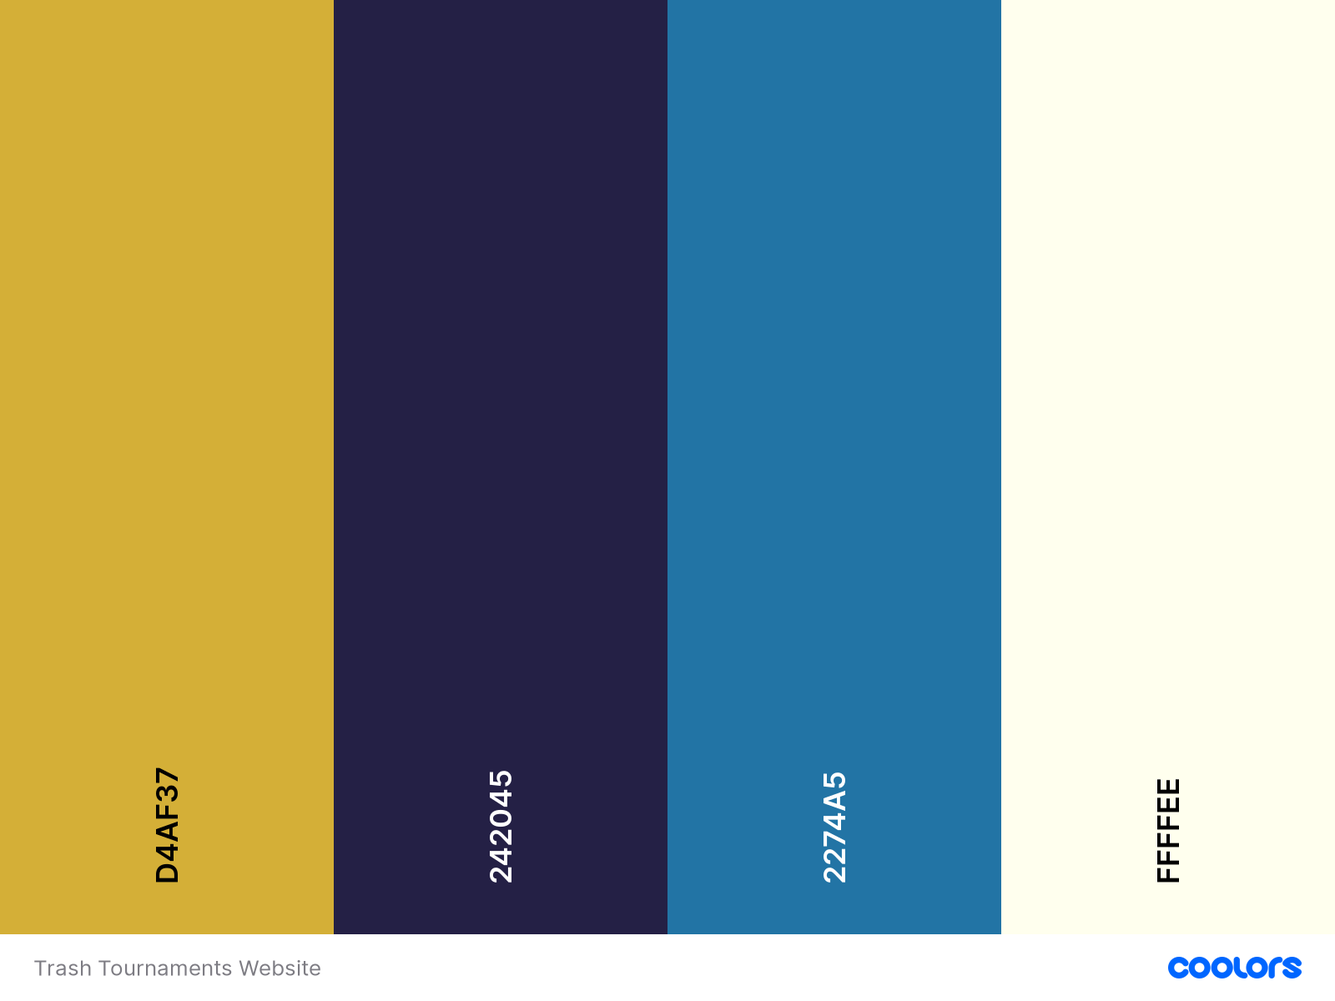
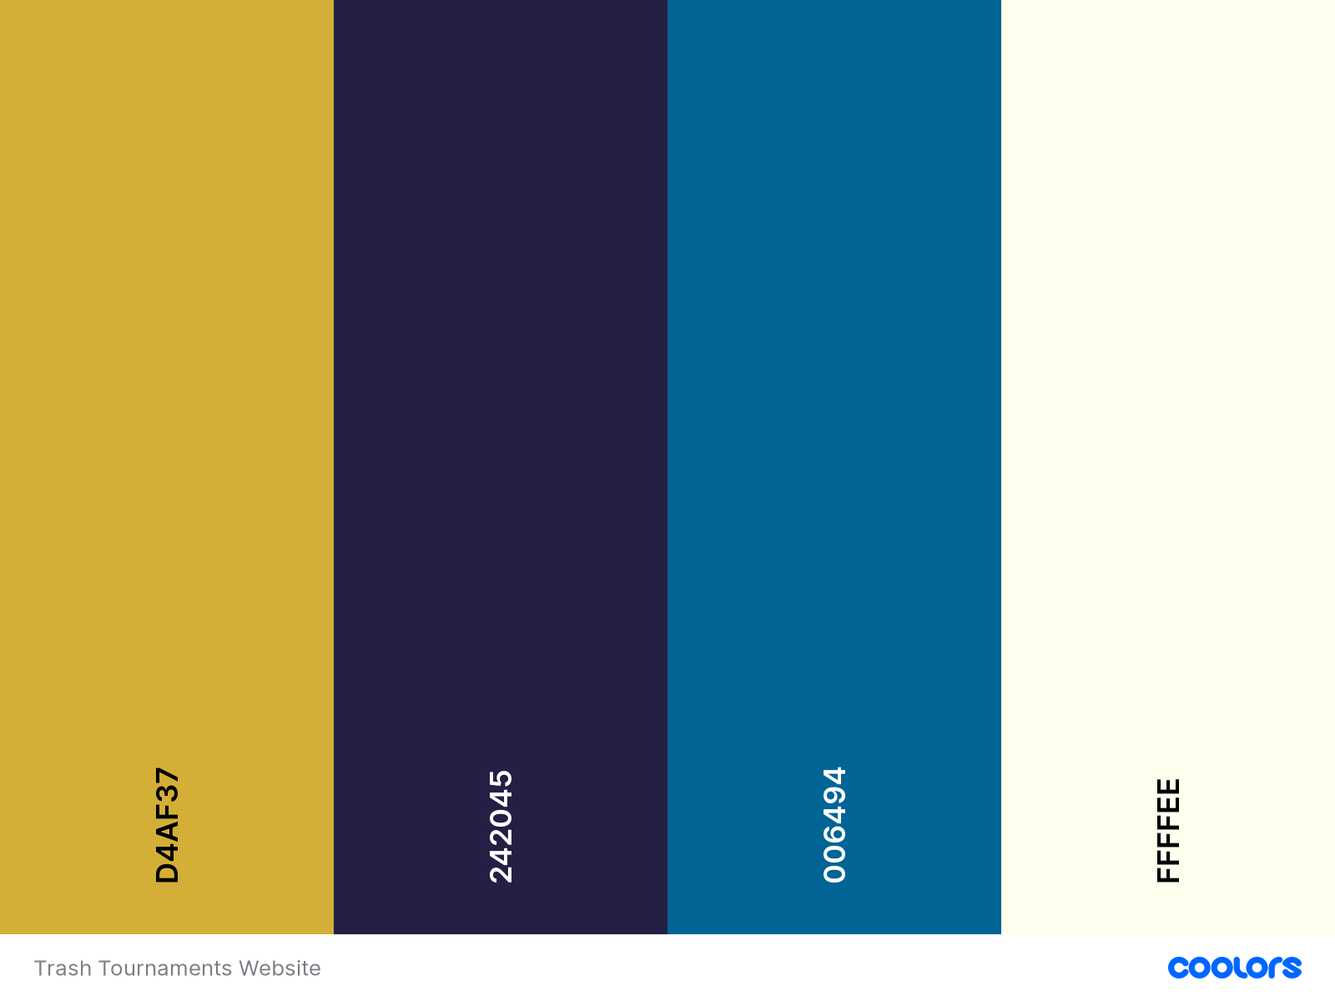
[DOCS] Fixed typos and grammatical errors

Changed region(s): [[0.5, 0.0, 0.75, 0.9558]]

diff --git a/tournaments.html b/tournaments.html
@@ -58,7 +58,7 @@
                         </div>
                         <div class="tournament-object" data-dates="Sat 7th Nov 2020 4pm GMT">
                             <h2 class="tournament-title">Turtle Tournament</h2>
-                            <p class="tournament-text">Your standard tournament, but with a twist. You can only be upside down on your roof! It's aboslutely hilarious and it improves your ground game so may the best turtles ride their shells to victory!</p>
+                            <p class="tournament-text">Your standard tournament, but with a twist. You can only be upside down on your roof! It's absolutely hilarious and it improves your ground game so may the best turtles ride their shells to victory!</p>
                         </div>
                         <div class="tournament-object" data-dates="Sat 14th Nov 2020 8pm GMT">
                             <h2 class="tournament-title">Slow mo Tournament</h2>

diff --git a/README.md b/README.md
@@ -2,7 +2,9 @@
 
 [View a live version of the site here.](https://joeyyscott.github.io/Trash-Tournaments/)
 
-Trash Tournaments is a personal community discord aimed at helping peope improve at the game [Rocket League](https://www.rocketleague.com/). It is owned by me and a few friends and for Milestone Project 1 why not create a site that will get used?
+I have created this project (Milestone project 1) as part of my Full Stack Web Development course with [Code Institute](https://codeinstitute.net/).
+
+Trash Tournaments is a personal community discord aimed at helping people improve at the game [Rocket League](https://www.rocketleague.com/). It is owned by me and a few friends. For Milestone Project 1 I thought why not create a site that will get used?
 
 ![Am I responsive screenshot](readme-images/amiresponsive.png)
 
@@ -41,7 +43,7 @@ ___
 
 ### Project Goals
 
-The idea is to create a static front-end only website consisting of 5 pages to advertise a non competitive [Rocket League](https://www.rocketleague.com/) tournament discord. The basis for this idea is being a veteran Rocket League player myself I know first-hand the bad experiences a user can encounter. The Discord itself is run by me. I consulted with a few friends and proposed the idea to them to give me an idea of requirements, needs and what they would expect/desire from such a product.
+The idea is to create a static front-end only website consisting of 4 pages to advertise a non competitive [Rocket League](https://www.rocketleague.com/) tournament discord. The basis for this idea is being a veteran Rocket League player myself I know first-hand the bad experiences a user can encounter. The Discord itself is run by me. I consulted with a few friends and proposed the idea to them to give me an idea of requirements, needs and what they would expect/desire from such a product.
 
 ### Content Requirements
 
@@ -49,7 +51,7 @@ The idea is to create a static front-end only website consisting of 5 pages to a
 
     **Strategy for requirement**:
     
-    The only graphic that has been given is the discord logo. Due to this, it is the main inspiration for the design as it returns you to the home page. The suggested colour scheme is: white, blue and gold. These 3 colours will create a consistent style for the website and thus the brand.
+    The only graphic that has been given is the discord logo. Due to this, it is the main inspiration for the design as it returns you to the home page. The suggested colour scheme is: gold, blue and white. These 3 colours will create a consistent style for the website and thus the brand.
 
     I have conducted interviews with the administrators as well as a few current players which provided the information to fill the home page, about section and FAQ. I also received information on how the tournaments will be structured time zone wise which provides a basis for the tournaments' timetable page.
 
@@ -69,14 +71,14 @@ The idea is to create a static front-end only website consisting of 5 pages to a
     
     Establishing a solid brand image from the Discord's ethos, active players and purpose creates the welcoming environment for new users. This paired with people who are looking to improve provides a mentally positive and encouraging environment associated with the brand. I have added a quick overview of the about page on the homepage to further reinforce that environment.
 
-    People playing [Rocket League](https://www.rocketleague.com/) either own a console, pc or both. 66.6% (console) of players may not own a PC/laptop. This is an important consideration as this is potentially 2/3rds of the target audience. Due to this the website will be constructed with a mobile first design approach to utilize the time a potential user spends on the site by providing only the essential information whilst maintaining the style, layout and intuitive browsing. This allows all users (mobile, tablet, PC) to receive a similar but optimized experience which maintains the brand image across all devices. The navigation menu will be central fixed to the top with taglines to provide additional info; however on mobile devices the menu will collapse into a ‘hamburger’ icon as these devices have less screen real estate. All versions will include eye catching fonts, a fitting colour scheme (active pages, links, hovers, etc) and utilizing modern conventions consistently to maintain a satisfying user experience. Using a sleek design will catch the attention of new visitors as it looks professional and provides a positive brand image.
+    People playing [Rocket League](https://www.rocketleague.com/) either own a console, pc or both. 66.6% (console) of players may not own a PC/laptop. This is an important consideration as this is potentially 2/3rds of the target audience. Due to this the website will be constructed with a mobile first design approach to utilize the time a potential user spends on the site by providing only the essential information whilst maintaining the style, layout and intuitive browsing. This allows all users (mobile, tablet, PC) to receive a similar but optimized experience which maintains the brand image across all devices. The navigation menu will be central fixed to the top with taglines to provide additional information; however on mobile devices the menu will collapse into a ‘hamburger’ icon as these devices have less screen real estate. All versions will include eye catching fonts, a fitting colour scheme (active pages, links, hovers, etc) and utilizing modern conventions consistently to maintain a satisfying user experience. Using a sleek design will catch the attention of new visitors as it looks professional and provides a positive brand image.
 
 + What does the user expect from such a website?
 
     **Strategy for requirement**: 
     + **What is this?** - Product branding/style must be consistent across all pages and easily recognizable throughout the website.
     + **Expectations of User?** - Active player base, promising reviews, information on all critical areas. Tournament times/dates, how to get involved and a way to contact the owners should they be stuck.
-    + **Does it offer what I want?** - Friendly environment to improve, higher ranks willing to help, finding people to play with who have similar interests. (wanting to improve, play as a team, etc)
+    + **Does it offer what I want?** - Friendly environment to improve, higher ranks willing to help, finding people to play with who have similar interests (wanting to improve, play as a team, etc).
     + **Does it encourage new users and existing users to stay/return?** - All call to action buttons and links open up in a new tab to maintain user retention. On the homepage there is evidence of all the content within the site in a shortened version; current users, users' learning experiences in the About page, a variety of information/content presented to promote the Discord's ethos and community which entices new users as they can see others already benefitting from it.
 
 ### Importance and Feasibility chart
@@ -109,18 +111,18 @@ F. User posted testimonials | 1 | 2
     + As a **site owner** I want users to clearly see there are people willing to play with and help them improve at [Rocket League](https://www.rocketleague.com/).
     + As a **site owner** I want an organized, intuitive navigation system across all pages.
     + As a **site owner** I want users to see input from people who have participated and their respective ranks.
-    + As a **site owner** I want to include information of upcoming tournaments with conversions for major time zones.
+    + As a **site owner** I want to include information of upcoming tournaments with a way to convert the schedule for any users time zone.
     + As a **site owner** I want any user to be able to easily contact me with their details and query for more information.
 
 ### What is needed now and in future?
 
 + What do they say they need?
 
-    The Discord owners want an aesthetically pleasing and professional website to reinforce their ethos and give a concise but detailed description of everything the Discord has to offer. A section in the About page to contain player reviews of the Discord to provide reassurance that anyone, even a Bronze player can and has benefitted from the experience. This includes their rank, learning experience and their recommendation out of 10 which attracts new users and allows current users to be inspired and motivated by other’s experiences.
+    The Discord owners want an aesthetically pleasing and professional website to reinforce their ethos and give a concise but detailed description of everything the Discord has to offer. There will be a player feedback section in the About page to provide reassurance that anyone, even a Bronze player can and has benefitted from the experience. This includes their rank, learning experience and their recommendation out of 10 which attracts new users and allows current users to be inspired and motivated by other’s experiences.
 
 + What do they actually need?
 
-    The Discord owners could have their needs and more fulfilled by using a mobile first approach to a fully responsive website which would allow for easy navigation, use and no diminished experiences on all viewport sizes. Clear simplistically designed pages and sections to draw attention to all the features offered (About, Tournaments and FAQ/contact) which allows new users to become familiarized with the environment in use by the current players and encourage them to get involved. Within the Tournaments' section, display dates and times in the time zone GMT with a converter that allows all users to check when it is for them. Include a description for the type of tournament (regular, extra modes, training) to ensure users are receiving the correct information for where they wish to get involved.
+    The Discord owners could have their needs and more fulfilled by using a mobile first approach to a fully responsive website which would allow for easy navigation, use and no diminished experiences on all viewport sizes. Clear simplistically designed pages and sections to draw attention to all the features offered (About, Tournaments and FAQ/contact) which allows new users to become familiarized with the environment in use by the current players and encourage them to get involved. Within the Tournaments' section, display dates and times in the time zone GMT with a converter that allows all users to check when it is for them. Include a description for the type of tournament (regular, extra modes, training) to ensure users are receiving the correct information should they wish to get involved.
 
 + What don’t they know they need?
 
@@ -152,7 +154,9 @@ To maintain a good user experience, consistent styling throughout the site using
 
 ![Colour Scheme](readme-images/colourscheme.png)
 
-After a quick Google search I found a great tool called [coolors.co](https://coolors.co/) which I used to create this colour scheme. From the strategy section feedback, it was decided to be blue, white and gold. I picked the gold and darker blue from the logo given, I decided to use a second lighter shade of blue (using the sites generator) to create visual identification to the user about state changes of elements. The final colour chosen was off-white to provide a neutral colour for text.
+After a quick Google search I found a great tool called [coolors.co](https://coolors.co/) which I used to create this colour scheme. From the strategy section feedback it was decided to be gold, blue and white. I picked the gold and darker blue from the logo given. 
+
+I am using the gold as the main colour and the dark blue to provide visual identification to the user about state changes of elements. I decided to use a second lighter shade of blue (using the sites generator) to create the background colour as I felt this would provide a better contrast than the darker blue. The final colour chosen was off-white to provide a neutral colour for text as well as visual identification to the user about the page they're currently browsing.
 
 #### Images
 
@@ -172,8 +176,10 @@ To keep with the intended consistent styling I have used the same two fonts from
 
 ### Design changes
 
-+ Originally I was going to use the standard navbartoggler icon from BootStrap but decided to use a font awesome icon inside my span element of the button. It doesn't seem to affect my site as it stands, I used a trash can icon to build the Brand's presence.
++ Originally I was going to use the standard navbartoggler icon from BootStrap but decided to use a font awesome icon inside my span element of the button. It does not seem to affect my site as it stands so I used a trash can icon to build the Brand's presence.
     + EDIT: I ended up designing a nav logo using the 3 lines of a conventional hamburger icon and have used this instead.
++ I had originally used #2274a5 as my background colour but after checking accessibility options I found out it was not a great contrast.
+
 
 #### [Back to top](#contents)
 
@@ -183,7 +189,7 @@ To keep with the intended consistent styling I have used the same two fonts from
 
 + ### Existing Features
 
-    The header, footer and modal remain the same across pages to maintain a consistent style.
+    The header, footer and modal remain the same across all pages to maintain a consistent style.
 
     Included in the **header** is: 
 
@@ -227,7 +233,7 @@ To keep with the intended consistent styling I have used the same two fonts from
 
     **NOTES**:
     
-    > This page was added as I was going through my project against the Assessment Handbook 2020. Upon doing so I noticed there was a section in the Distinction performance that reads "users who direct to a non-existence page or resource are redirected back to the main page without having to use the browser navigation buttons". This method was pinned in the [Code Institute's](https://codeinstitute.net/) Slack community about how to add a 404 page.
+    This page was added as I was going through my project against the Assessment Handbook 2020. Upon doing so I noticed there was a section in the Distinction performance that reads "users who direct to a non-existence page or resource are redirected back to the main page without having to use the browser navigation buttons". This method was pinned in the [Code Institute's](https://codeinstitute.net/) Slack community about how to add a 404 page.
     
     Simply add a 404.md file and place:
     ```
@@ -237,12 +243,12 @@ To keep with the intended consistent styling I have used the same two fonts from
     ```
     Within the file, then add content to 404.html to redirect the user back to index.html.
 
-    I'm not sure on the full functionality of such a feature but I wanted to at least attempt this part of the project as I'm aiming for Distinction.
+    I am not sure on the full functionality of such a feature but I wanted to at least attempt this part of the project as I am aiming for Distinction.
 
 + ### Features to be added
 
     + **User profiles**: This would require a signup page, user accounts and a way to faciliate this process.
-    + **User posted feedback**: From speaking to users in my UX design section being able to add their own feedback is a favourable feature. (This would also require user profiles)
+    + **User posted feedback**: From speaking to users in my UX design section being able to add their own feedback is a favourable feature. This would also require user profiles to function as intended.
 
 #### [Back to top](#contents)
 
@@ -261,9 +267,10 @@ To keep with the intended consistent styling I have used the same two fonts from
 + [GitPod](https://gitpod.io) - GitPod was the online IDE (Integrated Development Engine) I used to develop this site.
 + [Git](https://git-scm.com) - Git is an open source version control system where you can commit changes to the associated Github repository and push changes to Github pages.
 + [coolors.co](https://coolors.co) - I used this tool to generate a colour scheme based on the two colours I had.
-+ [Colorhexa](https://www.colorhexa.com/) - I used this tool to give me the RGB values of my light blue colour for the ttstyle-fade class.
++ [Colorhexa](https://www.colorhexa.com/) - I used this tool to give me the RGB values of my light blue colour for the ttstyle-fade class (This class has such been removed but the technology was used in the development process and thus remained).
 + [GIMP](https://www.gimp.org) - I used this program to design the navigation menu, footer icons and wireframes.
-+ [Am I Responsive?](http://ami.responsivedesign.is/) - I used this tool to easily display the responsiveness of my site for my README.md intro.
++ [Am I Responsive?](http://ami.responsivedesign.is/) - I used this tool to easily display the responsiveness of my site for my README.md introduction.
++ [Accessible Color Generator](https://learnui.design/tools/accessible-color-generator.html) - I used this tool to find an alternate background colour (using my previous colours) to provide a better colour contrast for accessibility. 
 
 #### [Back to top](#contents)
 
@@ -320,7 +327,7 @@ The live link for the site is here: [https://joeyyscott.github.io/Trash-Tourname
 
 This section includes areas/sections of code and properties I was unaware of. I have also included sources from where I have adapted/changed code used in the projects throughout my course as I figured it was better practice to state as such to avoid any penalizations or copyright violations.
 
-+ Tournaments page / html/CSS - The timeline used the Tournaments page is an adapted version of the timeline used in Code Institute's mini project for [Rosies Resume](https://github.com/Code-Institute-Solutions/resume-miniproject-bootstrap4). I have never coded this feature before but felt it would make an effective way to display information about the Tournaments' including time, date and description.
++ Tournaments page / html/CSS - The timeline used the Tournaments page is an adapted version of the timeline used in Code Institute's mini project for [Rosies Resume](https://github.com/Code-Institute-Solutions/resume-miniproject-bootstrap4). I have never coded this feature before but felt it would make an effective way to display information about the Tournaments including time, date and description.
 + Player Feedback / html - I wanted to use the quotes section from the [Whiskey Drop](https://github.com/Code-Institute-Solutions/BootstrappingYourNextBigIdea-BS4) project and ended up adapting my code to my needs. I wanted to display information from players in this way but further along the development process I made the decision to show images on all devices and on the same line but thought it best to include this in my citations.
 + My responsive navbar is an adapted version from Bootstrap [here](https://getbootstrap.com/docs/4.0/components/navbar/).
 

diff --git a/TESTING.md b/TESTING.md
@@ -2,56 +2,56 @@
 
 ### Code validators
 
-I used [w3.org's validator](https://validator.w3.org/) for my HTML validation checks.
+I used [w3.org's validator](https://validator.w3.org/) for my HTML validation checks, here are my results:
 
-Home page (index.html)
++ Home page (index.html)
 
-![Home Page Validation](readme-images/index-test.png)
+    ![Home Page Validation](readme-images/index-test.png)
 
-About page (about.html)
++ About page (about.html)
 
-![About Page Validation](readme-images/about-test.png)
+    ![About Page Validation](readme-images/about-test.png)
 
-Tournaments page (tournaments.html)
++ Tournaments page (tournaments.html)
 
-![Tournaments Page Validation](readme-images/tournaments-test.png)
+    ![Tournaments Page Validation](readme-images/tournaments-test.png)
 
-Contact page (contact.html)
++ Contact page (contact.html)
 
-![Contact Page Validation](readme-images/contact-test.png)
+    ![Contact Page Validation](readme-images/contact-test.png)
 
 + The only warning received across all pages was about using h1 as a top level element only.
     + The warning was ignored as they were design decisions.
 
 Upon reflection I ended up reorganizing my code and adding in classes to scale my elements instead of using heading elements.
 
-Here is my updated testing of my HTML code;
+Here is my updated testing of my HTML code using the same validator:
 
-Home page (index.html)
++ Home page (index.html)
 
-![Home Page Validation](readme-images/index-test2.png)
+    ![Home Page Validation](readme-images/index-test2.png)
 
-About page (about.html)
++ About page (about.html)
 
-![About Page Validation](readme-images/about-test2.png)
+    ![About Page Validation](readme-images/about-test2.png)
 
-Tournaments page (tournaments.html)
++ Tournaments page (tournaments.html)
 
-![Tournaments Page Validation](readme-images/tournaments-test2.png)
+    ![Tournaments Page Validation](readme-images/tournaments-test2.png)
 
-Contact page (contact.html)
++ Contact page (contact.html)
 
-![Contact Page Validation](readme-images/contact-test2.png)
+    ![Contact Page Validation](readme-images/contact-test2.png)
 
-Error 404 page (404.html)
++ Error 404 page (404.html)
 
-![Error Page Validation](readme-images/error-test.png)
+    ![Error Page Validation](readme-images/error-test.png)
 
 I used [w3.org's validator](https://jigsaw.w3.org/css-validator/) for my CSS validation checks.
 
-CSS (style.css)
++ CSS (style.css)
 
-![CSS Validation](readme-images/css-test.png)
+    ![CSS Validation](readme-images/css-test.png)
 
 + No errors were found within the document.
 
@@ -113,7 +113,7 @@ Notes:
         + On smaller devices upon pressing the menu icon the user will see all the pages on the site and an associated icon.
     + As a **first time user** I want to understand the purpose of the site upon loading it.
         + Upon loading the site the user will land on index.html and be greeted with the header "Looking for a new kind of Rocket League experience?"
-        + There are 3 subheaders and an intro paragraph to give the user some more information on the website's purpose and directs them to press the button below.
+        + There are 3 subheaders and an introduction paragraph to give the user some more information on the website's purpose and directs them to press the button below.
         + The button expands the website overview which shows a description of and a link to each page of the site.
     + As a **first time user** I want to be able to easily view information about the Discord on any screen size.
         + I have tested the website across multiple screen sizes and have found no issues thus far.
@@ -135,7 +135,7 @@ Notes:
 - #### Site Owner Goals
 
     + As a **site owner** I want the landing page (index.html) to clearly provide all information needed about the site's purpose and what is available.
-        + When I visit the website I can see the intro section and expand button clearly.
+        + When I visit the website I can see the introduction section and expand button clearly.
         + In the overview section I can find out about every page within the site and see what is being offered to me.
     + As a **site owner** I want any user to receive the correct information for the viewport they are currently on.
         + I have tested the website across multiple screen sizes and have found no issues thus far with content displaying or appearing incorrectly.
@@ -150,9 +150,9 @@ Notes:
             + Provides clear identification to the user about which page they are currently on.
     + As a **site owner** I want users to see input from people who have participated and their respective ranks.
         + On about.html users can read reviews from players within our community and their rank is displayed after their name.
-    + As a **site owner** I want to include information of upcoming tournaments with conversions for major time zones.
+    + As a **site owner** I want to include information of upcoming tournaments with a way to convert the schedule for any users time zone.
         + On tournaments.html users can view the tournament timeline which displays the times of the next 4 occuring tournaments.
-        + Underneath the main intro paragraph on the timeline there is a disclaimer that times are posted in GMT and includes a link to a timezone converter tool.
+        + Underneath the main introduction paragraph on the timeline there is a disclaimer that times are posted in GMT and includes a link to a timezone converter tool.
     + As a **site owner** I want any user to be able to easily contact me with their details and query for more information.
         + On contact.html there is a form that can be filled out with a user's name, email and query which can be sent to the owner upon the user pressing the submit button.
         + There is validation on the form too to prevent junk query submissions.
